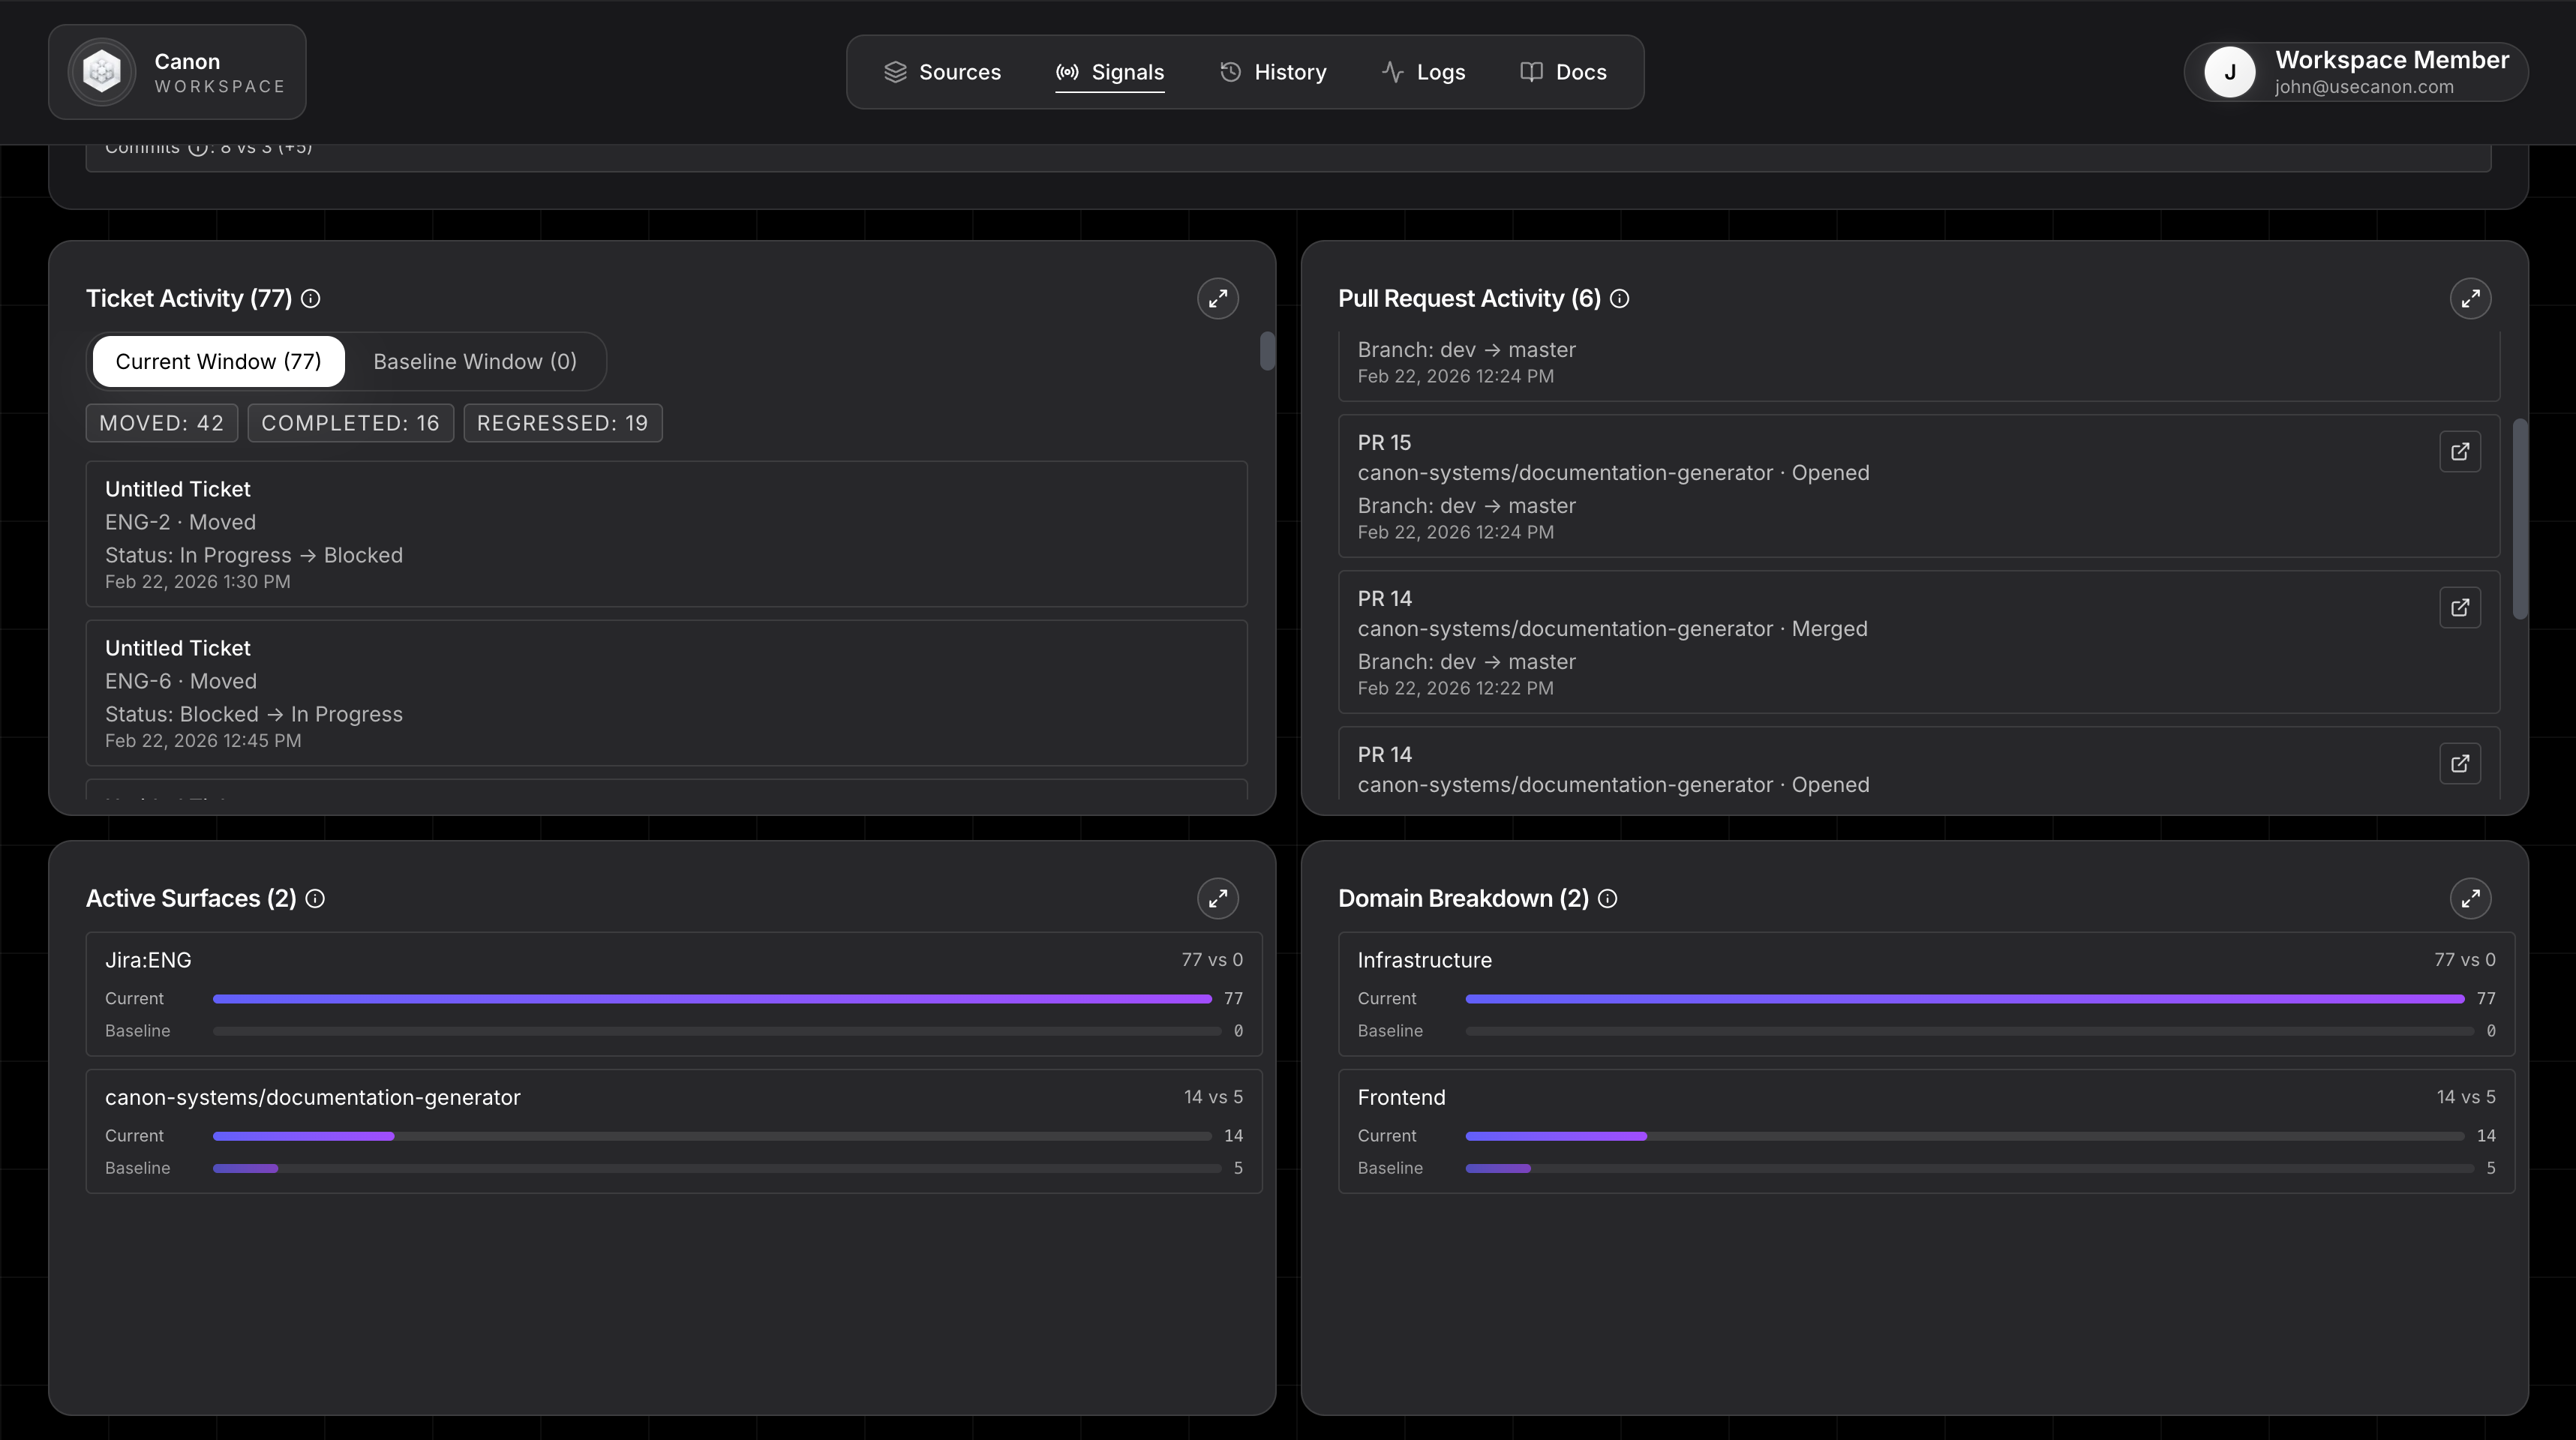
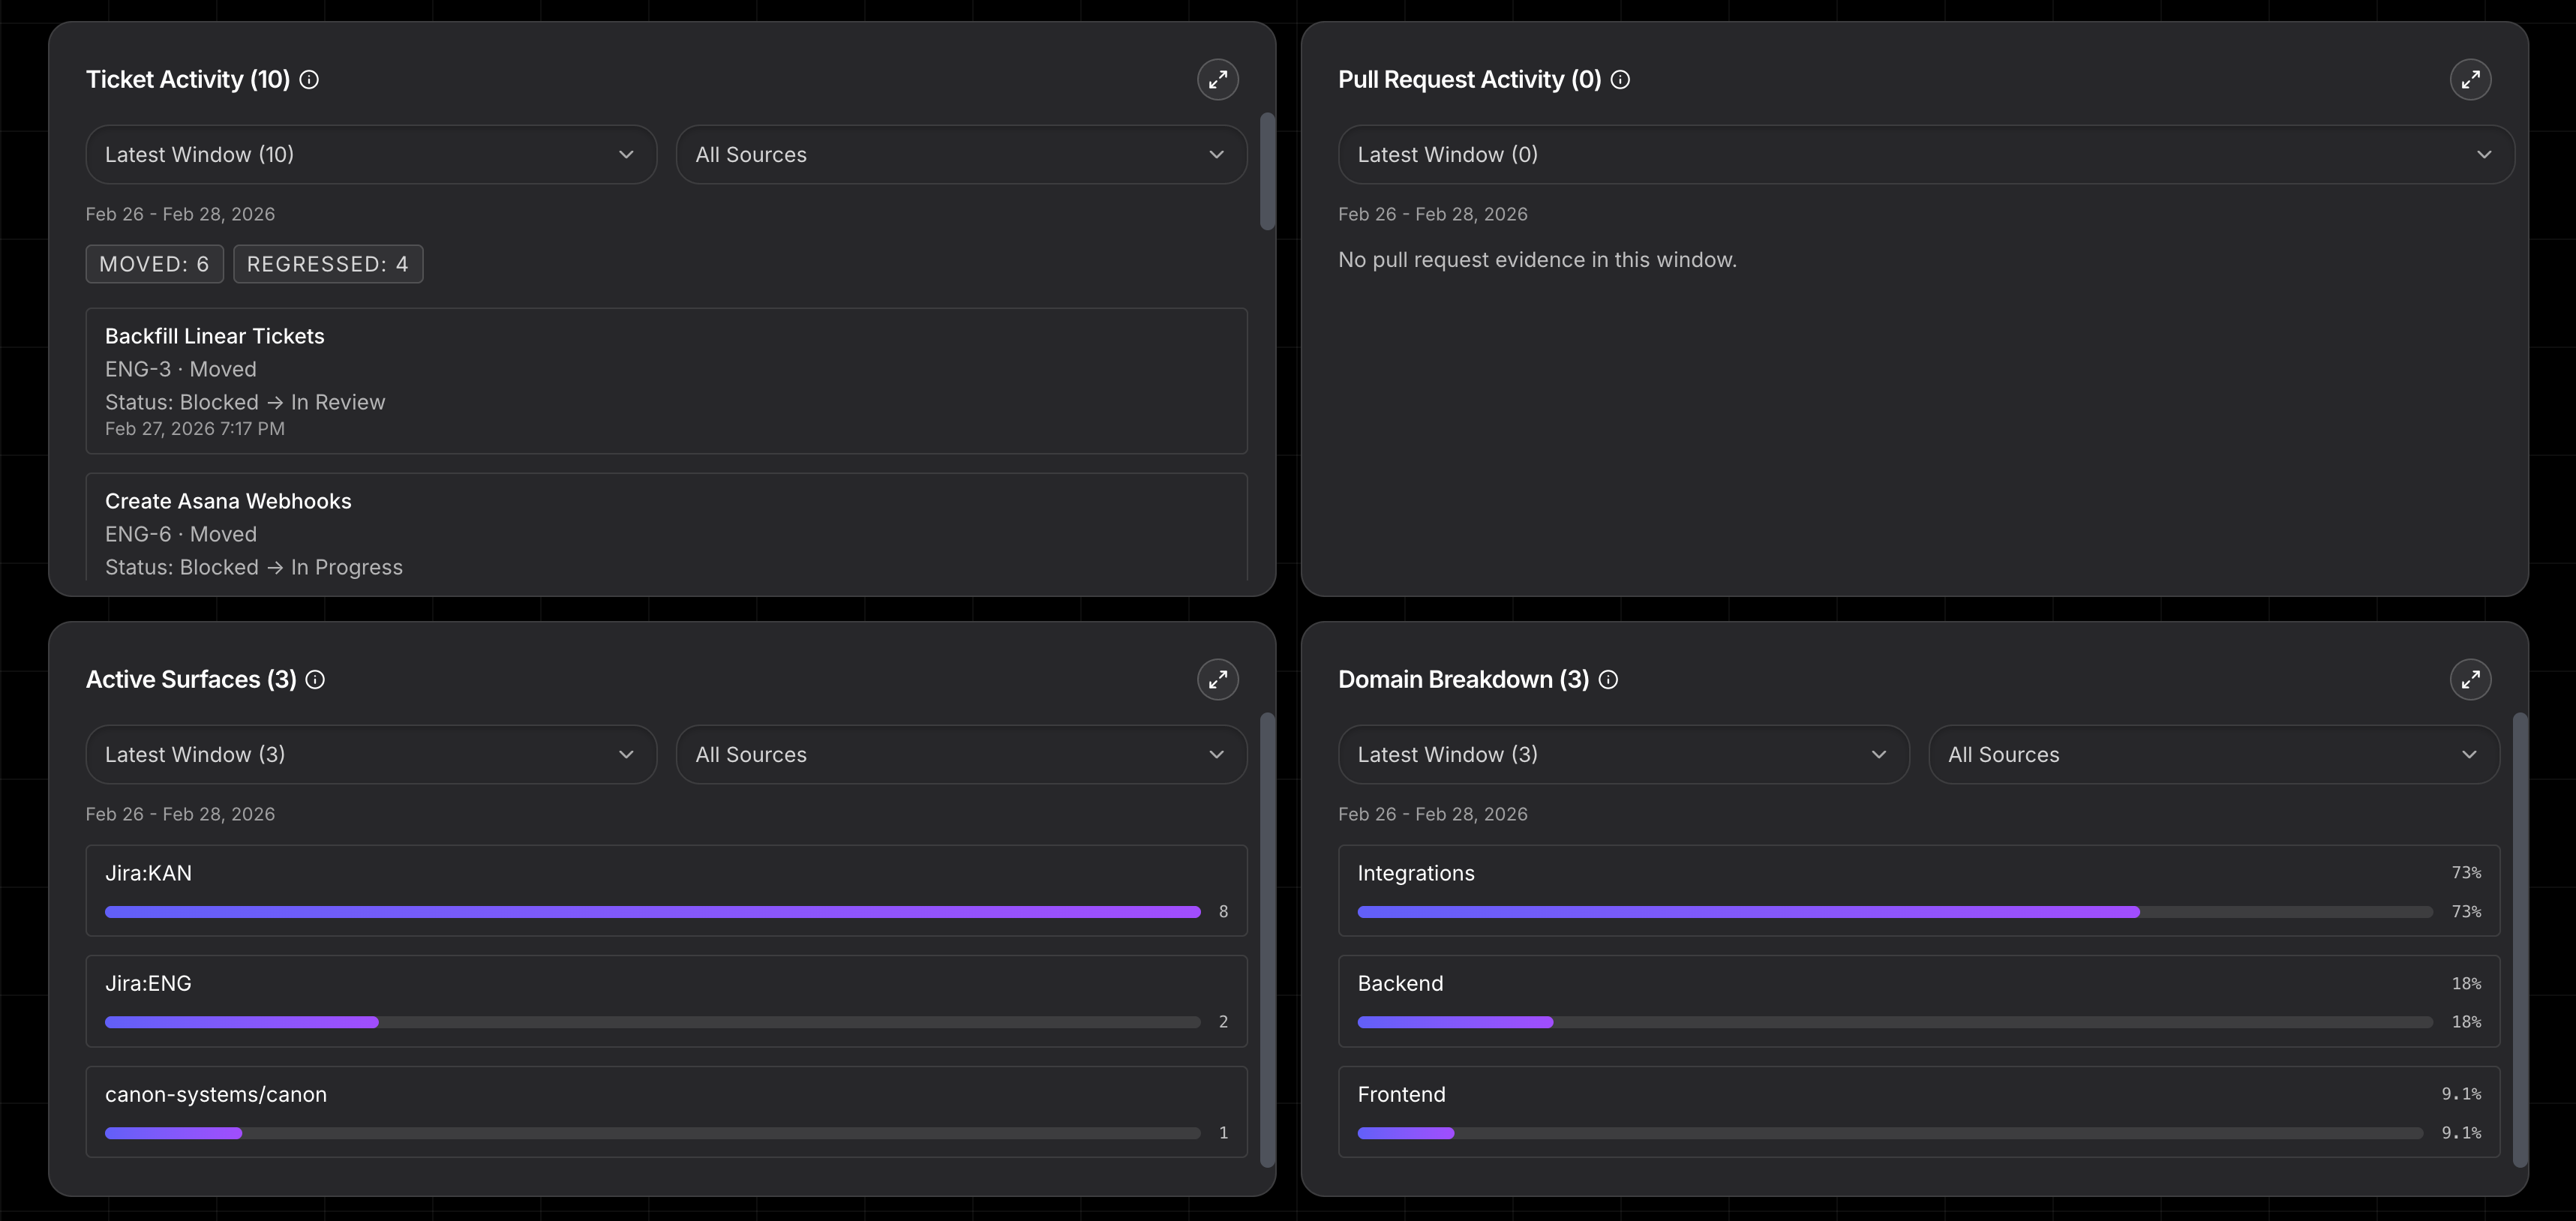
Update landing page content and layout for improved clarity and engagement
- Replaced outdated layer titles and descriptions with more relevant content, enhancing the executive briefing section for leadership.
- Adjusted the display of layer indicators to a more dynamic format, improving visual consistency.
- Added a new card to promote Canon's integration capabilities, providing users with additional context on tool compatibility.

diff --git a/landing-page/src/app/page.tsx b/landing-page/src/app/page.tsx
@@ -16,7 +16,6 @@ export default function LandingPage() {
   const [expandedImage, setExpandedImage] = useState<{ src: string; alt: string } | null>(null);
   const evidenceLayers = [
     {
-      layer: 'Layer 01',
       stage: 'Connected Sources',
       title: 'Where Execution Data Lives',
       description:
@@ -26,17 +25,15 @@ export default function LandingPage() {
       highlights: ['Connected workspaces', 'Integration health', 'Single pane for inputs'],
     },
     {
-      layer: 'Layer 02',
-      stage: 'Signal Summary',
-      title: 'Leadership Brief, Compressed',
+      stage: 'Executive Briefing',
+      title: 'Decision-Ready Narrative for Leadership',
       description:
-        'Canon surfaces the most meaningful shifts first so leaders can align quickly without wading through raw activity.',
-      image: '/signals.png',
-      alt: 'Canon signals view listing significant execution shifts and investigation actions.',
-      highlights: ['Prioritized change signal', 'Severity and impact context', 'Direct investigate path'],
+        'Canon transforms detected shifts into a concise executive briefing so leaders can align on risk, momentum, and next actions in minutes.',
+      image: '/executive%20briefing.png',
+      alt: 'Canon executive briefing view showing prioritized updates and leadership-ready narrative context.',
+      highlights: ['Leadership narrative output', 'Action-oriented summary', 'Cross-team alignment context'],
     },
     {
-      layer: 'Layer 03',
       stage: 'History Overview',
       title: 'Baseline and Deltas at a Glance',
       description:
@@ -46,7 +43,6 @@ export default function LandingPage() {
       highlights: ['Baseline comparison', 'Trend context', 'At-a-glance deltas'],
     },
     {
-      layer: 'Layer 04',
       stage: 'Workstream Deltas',
       title: 'Jira: Baseline vs Current, Side by Side',
       description:
@@ -56,7 +52,6 @@ export default function LandingPage() {
       highlights: ['Directional movement panels', 'Current vs baseline windows', 'Execution trend clarity'],
     },
     {
-      layer: 'Layer 05',
       stage: 'Delivery Deltas',
       title: 'GitHub: Code and Velocity in Context',
       description:
@@ -66,7 +61,6 @@ export default function LandingPage() {
       highlights: ['Commit and PR context', 'Velocity vs baseline', 'Delivery trend clarity'],
     },
     {
-      layer: 'Layer 06',
       stage: 'Source Evidence',
       title: 'Open the Evidence Dossier',
       description:
@@ -76,7 +70,6 @@ export default function LandingPage() {
       highlights: ['Baseline context', 'Top directional movers', 'Explainable signal rationale'],
     },
     {
-      layer: 'Layer 07',
       stage: 'Event-Level Detail',
       title: 'Trace the Underlying Events',
       description:
@@ -329,7 +322,7 @@ export default function LandingPage() {
                   >
                     <div className="mb-4 flex flex-wrap items-center justify-between gap-2">
                       <div className="flex items-center gap-2">
-                        <Badge variant="outline">{layer.layer}</Badge>
+                        <Badge variant="outline">Layer {String(idx + 1).padStart(2, '0')}</Badge>
                         <p className="text-xs font-semibold uppercase tracking-[0.22em] text-white/70">{layer.stage}</p>
                       </div>
                     </div>
@@ -479,6 +472,13 @@ export default function LandingPage() {
                 </CardHeader>
                 <CardContent>
                   <p className="text-white/85">Route daily signals, weekly insights, and change alerts to the right channels.</p>
+                </CardContent>
+              </Card>
+              <Card className="sm:col-span-3 min-h-[110px] bg-gradient-to-r from-white/[0.08] via-white/[0.04] to-white/[0.02]">
+                <CardContent className="flex h-full items-center justify-center px-6 py-6">
+                  <p className="max-w-4xl text-center text-sm text-white/85">
+                    Need another tool in your stack? Canon can integrate with additional systems based on your operating environment.
+                  </p>
                 </CardContent>
               </Card>
             </div>